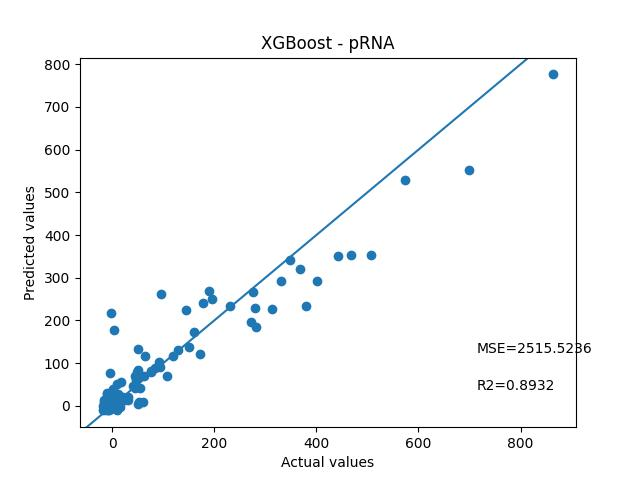
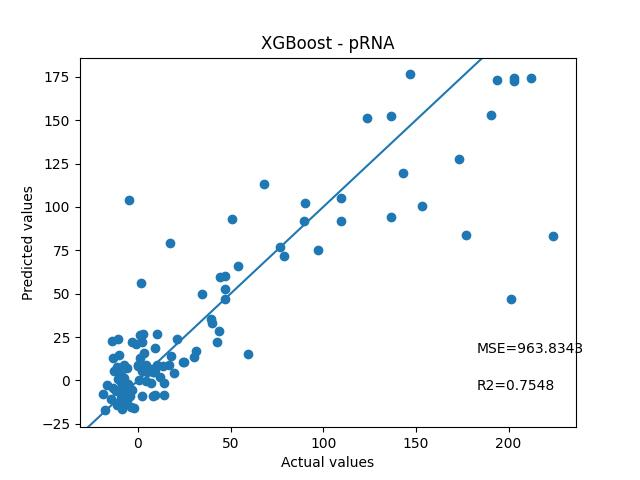
changed models, added complexity analysis

diff --git a/modeling/copy_num/models/models_functions.py b/modeling/copy_num/models/models_functions.py
@@ -21,7 +21,8 @@ def remove_outlires(X: pd.DataFrame, y: pd.DataFrame):
     return X, y
 
 def prepare_model_data(X: pd.DataFrame, y: pd.DataFrame):
-    X, y = remove_outlires(X, y)
+
+    # X, y = remove_outlires(X, y)
     X_train, X_test, y_train, y_test = train_test_split(X, y, test_size=0.15, random_state=0,stratify=is_high_copy_number(y))
     numeric_features = X_train.select_dtypes(include='float64', exclude='int64')
 
@@ -32,19 +33,16 @@ def prepare_model_data(X: pd.DataFrame, y: pd.DataFrame):
     return X_train, X_test, y_train, y_test
 
 
-def model(train_test,X: pd.DataFrame, y: pd.DataFrame, model_name: str, data_name: str,Best_param={}):
+def model(X: pd.DataFrame, y: pd.DataFrame, model_name: str, data_name: str,Best_param={}, save_plots=False):
     print(f"Running {model_name} for {data_name}")
 
     X_train, X_test, y_train, y_test = prepare_model_data(X, y)
 
-    # if train_test=='train':
-    #     for i in range(7):
-    #         [ii,kk]=converge_randomsearch(X_train, X_test, y_train, y_test, num_of_steps=5, nun_iter=7)
-    # else:
-
     if model_name == "lasso":
-        run_lasso(X_train, X_test, y_train, y_test, data_title=data_name, Best_param=Best_param)
+        r2, mse_score = run_lasso(X_train, X_test, y_train, y_test, data_title=data_name, Best_param=Best_param, save_plots=save_plots)
     elif model_name == "xgboost":
-        run_xgboost(X_train, X_test, y_train, y_test, data_title=data_name, Best_param=Best_param)
+        r2, mse_score = run_xgboost(X_train, X_test, y_train, y_test, data_title=data_name, Best_param=Best_param, save_plots=save_plots)
     else:
         raise Exception(f"No such model: {model_name}")
+
+    return r2, mse_score

diff --git a/modeling/copy_num/models/xgboost_model.py b/modeling/copy_num/models/xgboost_model.py
@@ -11,9 +11,9 @@ from modeling.copy_num.models.Parameters_Tuning import best_param_to_xl
 
 FIGURES_PATH = os.path.join("..", "..", "..", "data", "copy_num", "figures")
 
-def run_xgboost(X_train, X_test, y_train, y_test, data_title: str = None, Best_param: dict = {}):
+def run_xgboost(X_train, X_test, y_train, y_test, data_title: str = None, Best_param: dict = {}, save_plots=False):
     if bool(Best_param):
-        xgb_model = xgb.XGBRegressor(Best_param)
+        xgb_model = xgb.XGBRegressor(**Best_param)
     else:
         xgb_model = xgb.XGBRegressor()
 
@@ -26,7 +26,8 @@ def run_xgboost(X_train, X_test, y_train, y_test, data_title: str = None, Best_p
     print('the mse score for xgboost %.5f' % mse_score)
 
     ax = xgb.plot_importance(xgb_model, max_num_features=20, title=f'{data_title} feature importance - XGBoost')
-    ax.figure.savefig(os.path.join(FIGURES_PATH, f'XGBoost feature importance {data_title}.jpg'))
+    if save_plots:
+        ax.figure.savefig(os.path.join(FIGURES_PATH, f'XGBoost feature importance {data_title}.jpg'))
 
     # evaluation plot
     f, ax = plt.subplots()
@@ -37,7 +38,10 @@ def run_xgboost(X_train, X_test, y_train, y_test, data_title: str = None, Best_p
     plt.text(0.8, 0.1, 'R2=%.4f' % r2, transform=ax.transAxes)
     plt.text(0.8, 0.2, 'MSE=%.4f' % mse_score, transform=ax.transAxes)
     plt.title(f'XGBoost - {data_title}')
-    plt.savefig(os.path.join(FIGURES_PATH, f'XGBoost evaluation {data_title}.jpg'))
+    if save_plots:
+        plt.savefig(os.path.join(FIGURES_PATH, f'XGBoost evaluation {data_title}.jpg'))
+
+    return r2, mse_score
 
 
 

diff --git a/modeling/copy_num/models/lasso.py b/modeling/copy_num/models/lasso.py
@@ -6,7 +6,8 @@ import os
 
 FIGURES_PATH = os.path.join("..", "..", "..", "data", "copy_num", "figures")
 
-def run_lasso(X_train, X_test, y_train, y_test, data_title: str = None, Best_param={}):
+
+def run_lasso(X_train, X_test, y_train, y_test, data_title: str = None, Best_param={}, save_plots=False):
     if bool(Best_param):
         lasso_model = Lasso(Best_param)
     else:
@@ -39,8 +40,8 @@ def run_lasso(X_train, X_test, y_train, y_test, data_title: str = None, Best_par
     plt.title(f'Lasso model for {data_title}')
     plt.axvline(x=0, color='.5')
     plt.subplots_adjust(left=.3)
-    plt.savefig(os.path.join(FIGURES_PATH, f'Lasso feature importance {data_title}.jpg'))
-
+    if save_plots:
+        plt.savefig(os.path.join(FIGURES_PATH, f'Lasso feature importance {data_title}.jpg'))
 
     # evaluation plot
     f, ax = plt.subplots()
@@ -51,4 +52,7 @@ def run_lasso(X_train, X_test, y_train, y_test, data_title: str = None, Best_par
     plt.text(0.8, 0.1, 'R2=%.4f' % r2, transform=ax.transAxes)
     plt.text(0.8, 0.2, 'MSE=%.4f' % mse_score, transform=ax.transAxes)
     plt.title(f'Lasso - {data_title}')
-    plt.savefig(os.path.join(FIGURES_PATH, f'Lasso evaluation {data_title}.jpg'))
+    if save_plots:
+        plt.savefig(os.path.join(FIGURES_PATH, f'Lasso evaluation {data_title}.jpg'))
+
+    return r2, mse_score

diff --git a/modeling/copy_num/analysis/XGBoost_complexity_analysis.py b/modeling/copy_num/analysis/XGBoost_complexity_analysis.py
@@ -1,0 +1,34 @@
+from modeling.copy_num.data_prep.pre_process import get_features_df
+from modeling.copy_num.models.models_functions import model
+import matplotlib.pyplot as plt
+import os
+
+FIGURES_PATH = os.path.join("..", "..", "..", "data", "copy_num", "figures")
+
+if __name__ == '__main__':
+    data = get_features_df()
+    RNAp_X = data['RNAp_X']
+    RNAp_y = data['RNAp_y']
+    RNAi_X = data['RNAi_X']
+    RNAi_y = data['RNAi_y']
+    X_shared_model = data['X_shared']
+    Y_shared_model = data['Y_shared']
+
+    n_estimators_range = range(4, 1000, 20)
+    r2_list = []
+    mse_list = []
+    for n_estimators in n_estimators_range:
+        r2, mse_score = model(RNAp_X, RNAp_y, model_name="xgboost", data_name="pRNA",
+                              Best_param={'n_estimators': n_estimators}, save_plots=False)
+        r2_list.append(r2)
+        mse_list.append(mse_score)
+
+    # plot
+    fig = plt.figure()
+    plt.errorbar(n_estimators_range, r2_list)
+    # plt.errorbar(n_estimators_range, mse_list)
+
+    plt.title("XGBoost n_estimators vs R2 score")
+    plt.xlabel('n_estimators')
+    plt.ylabel('R2')
+    plt.savefig(os.path.join(FIGURES_PATH, f'XGBoost n_estimators vs R2 score pRNA.jpg'))
